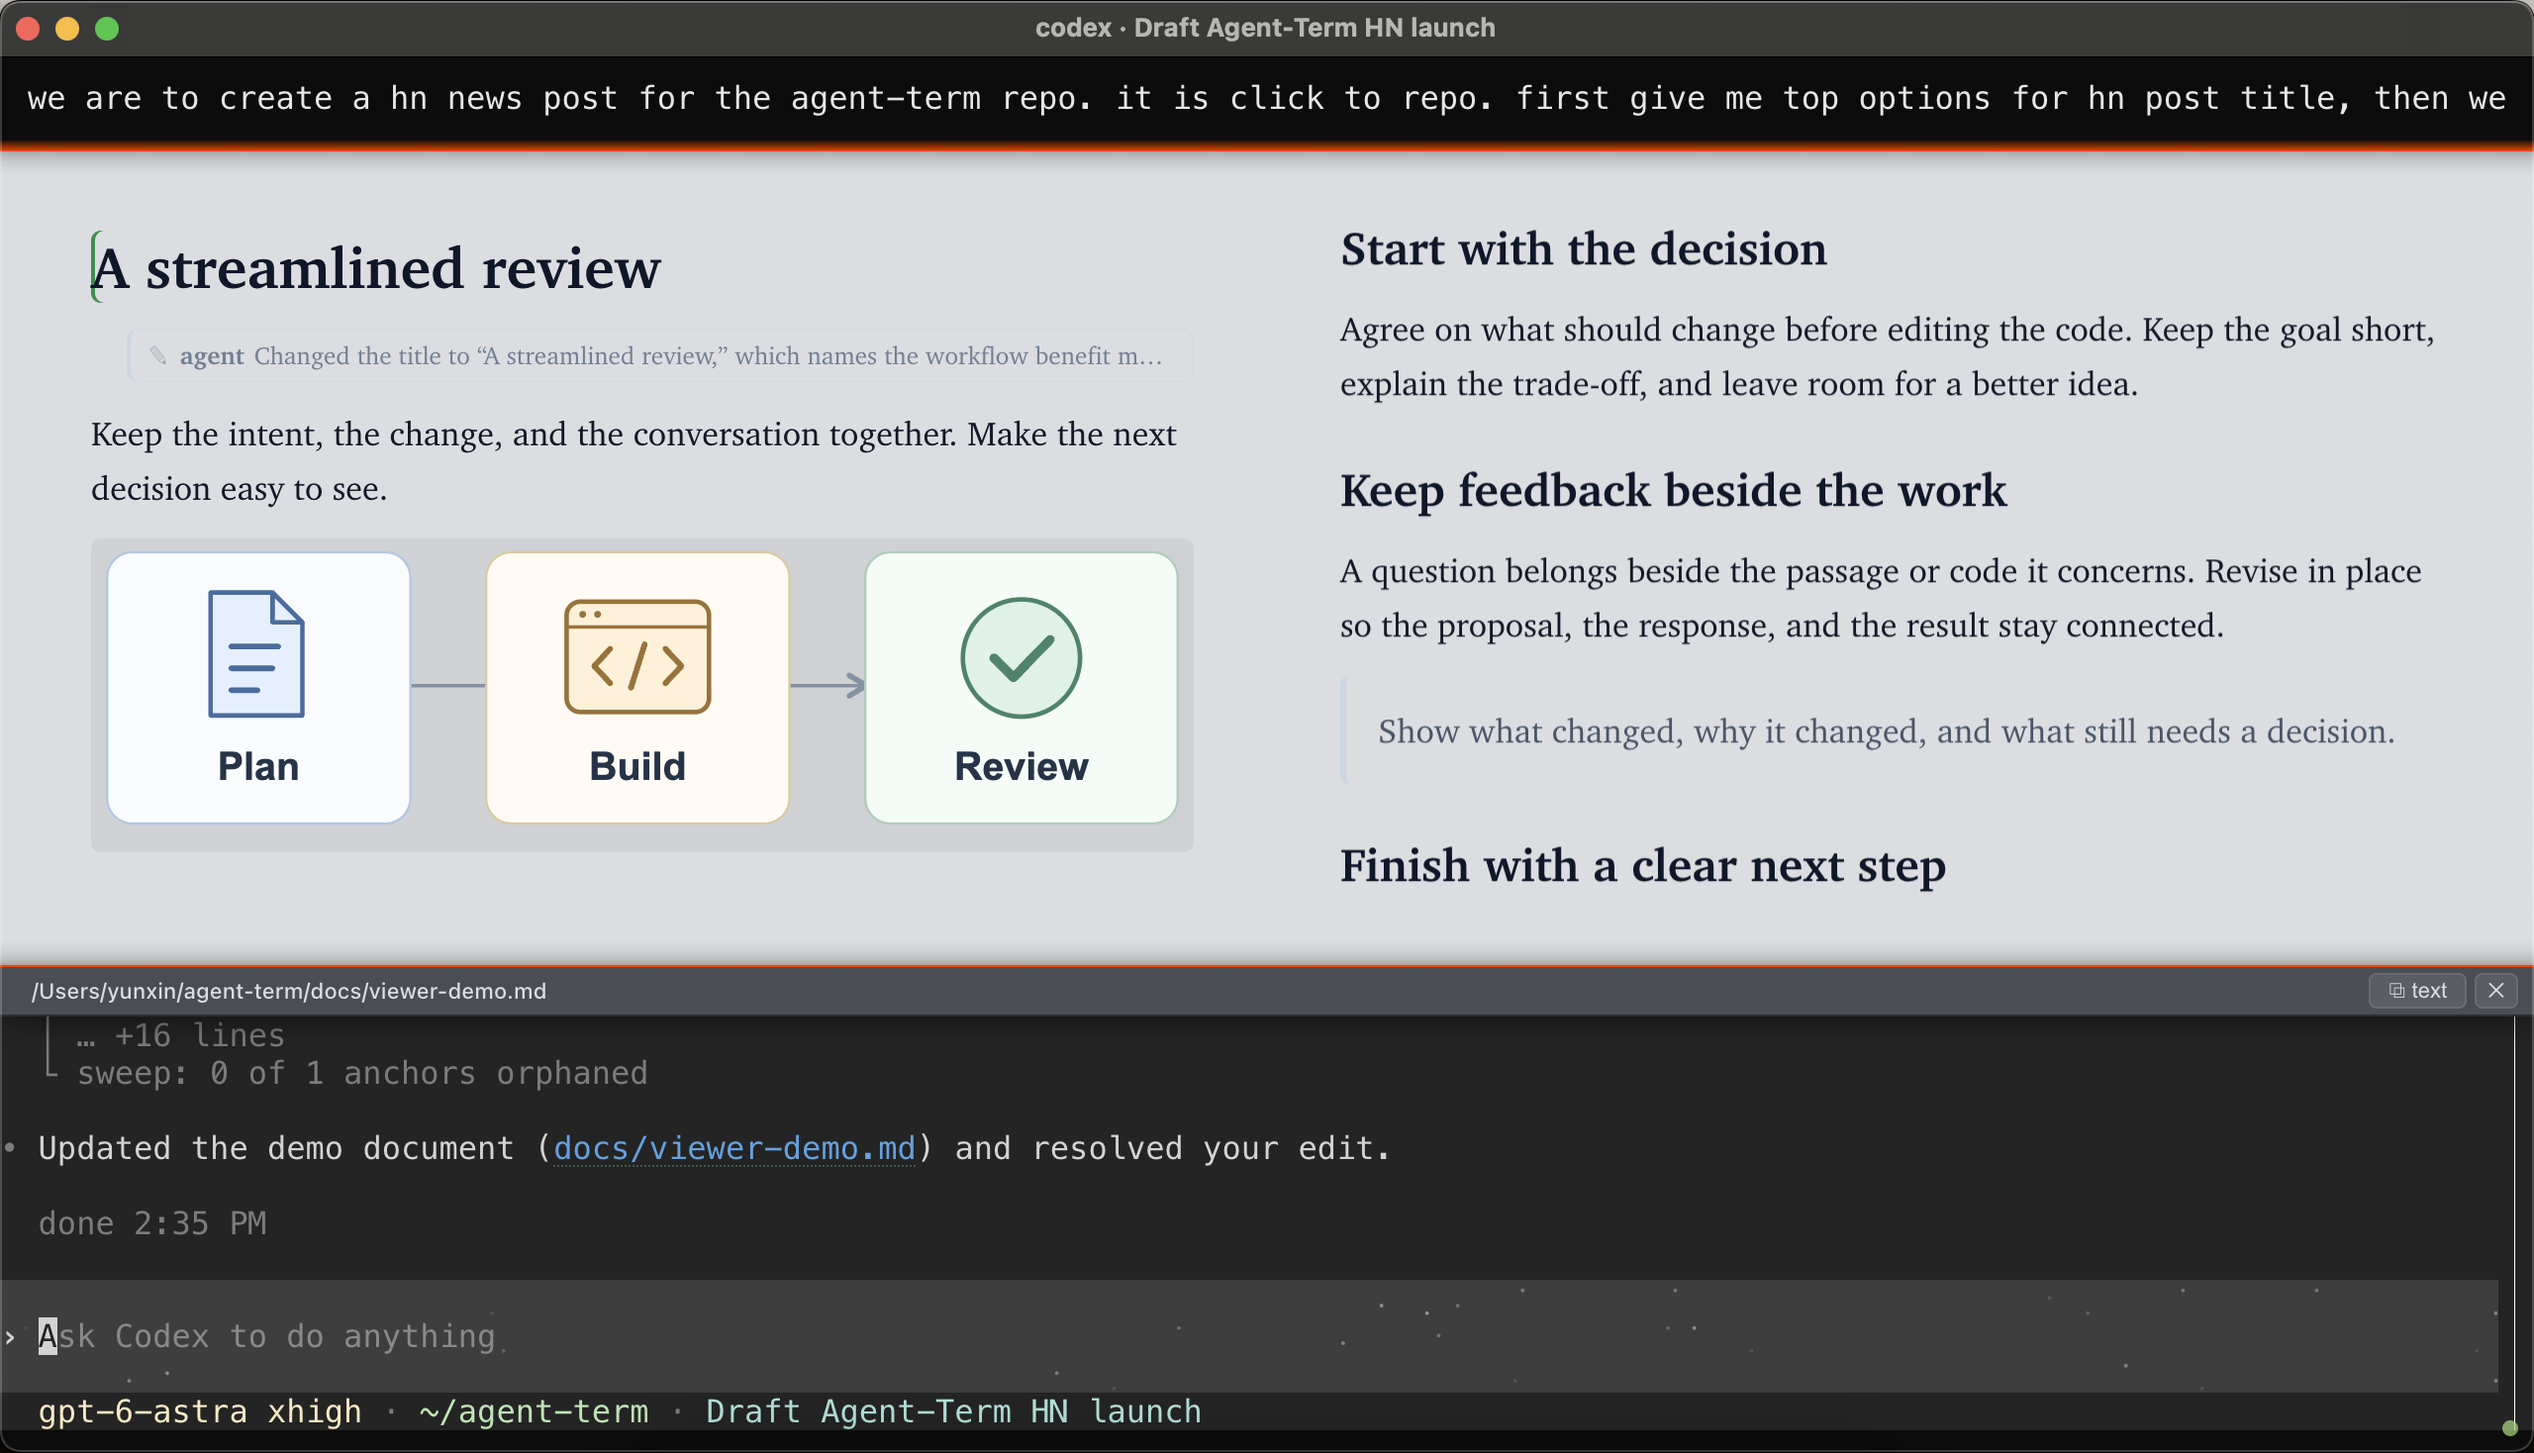
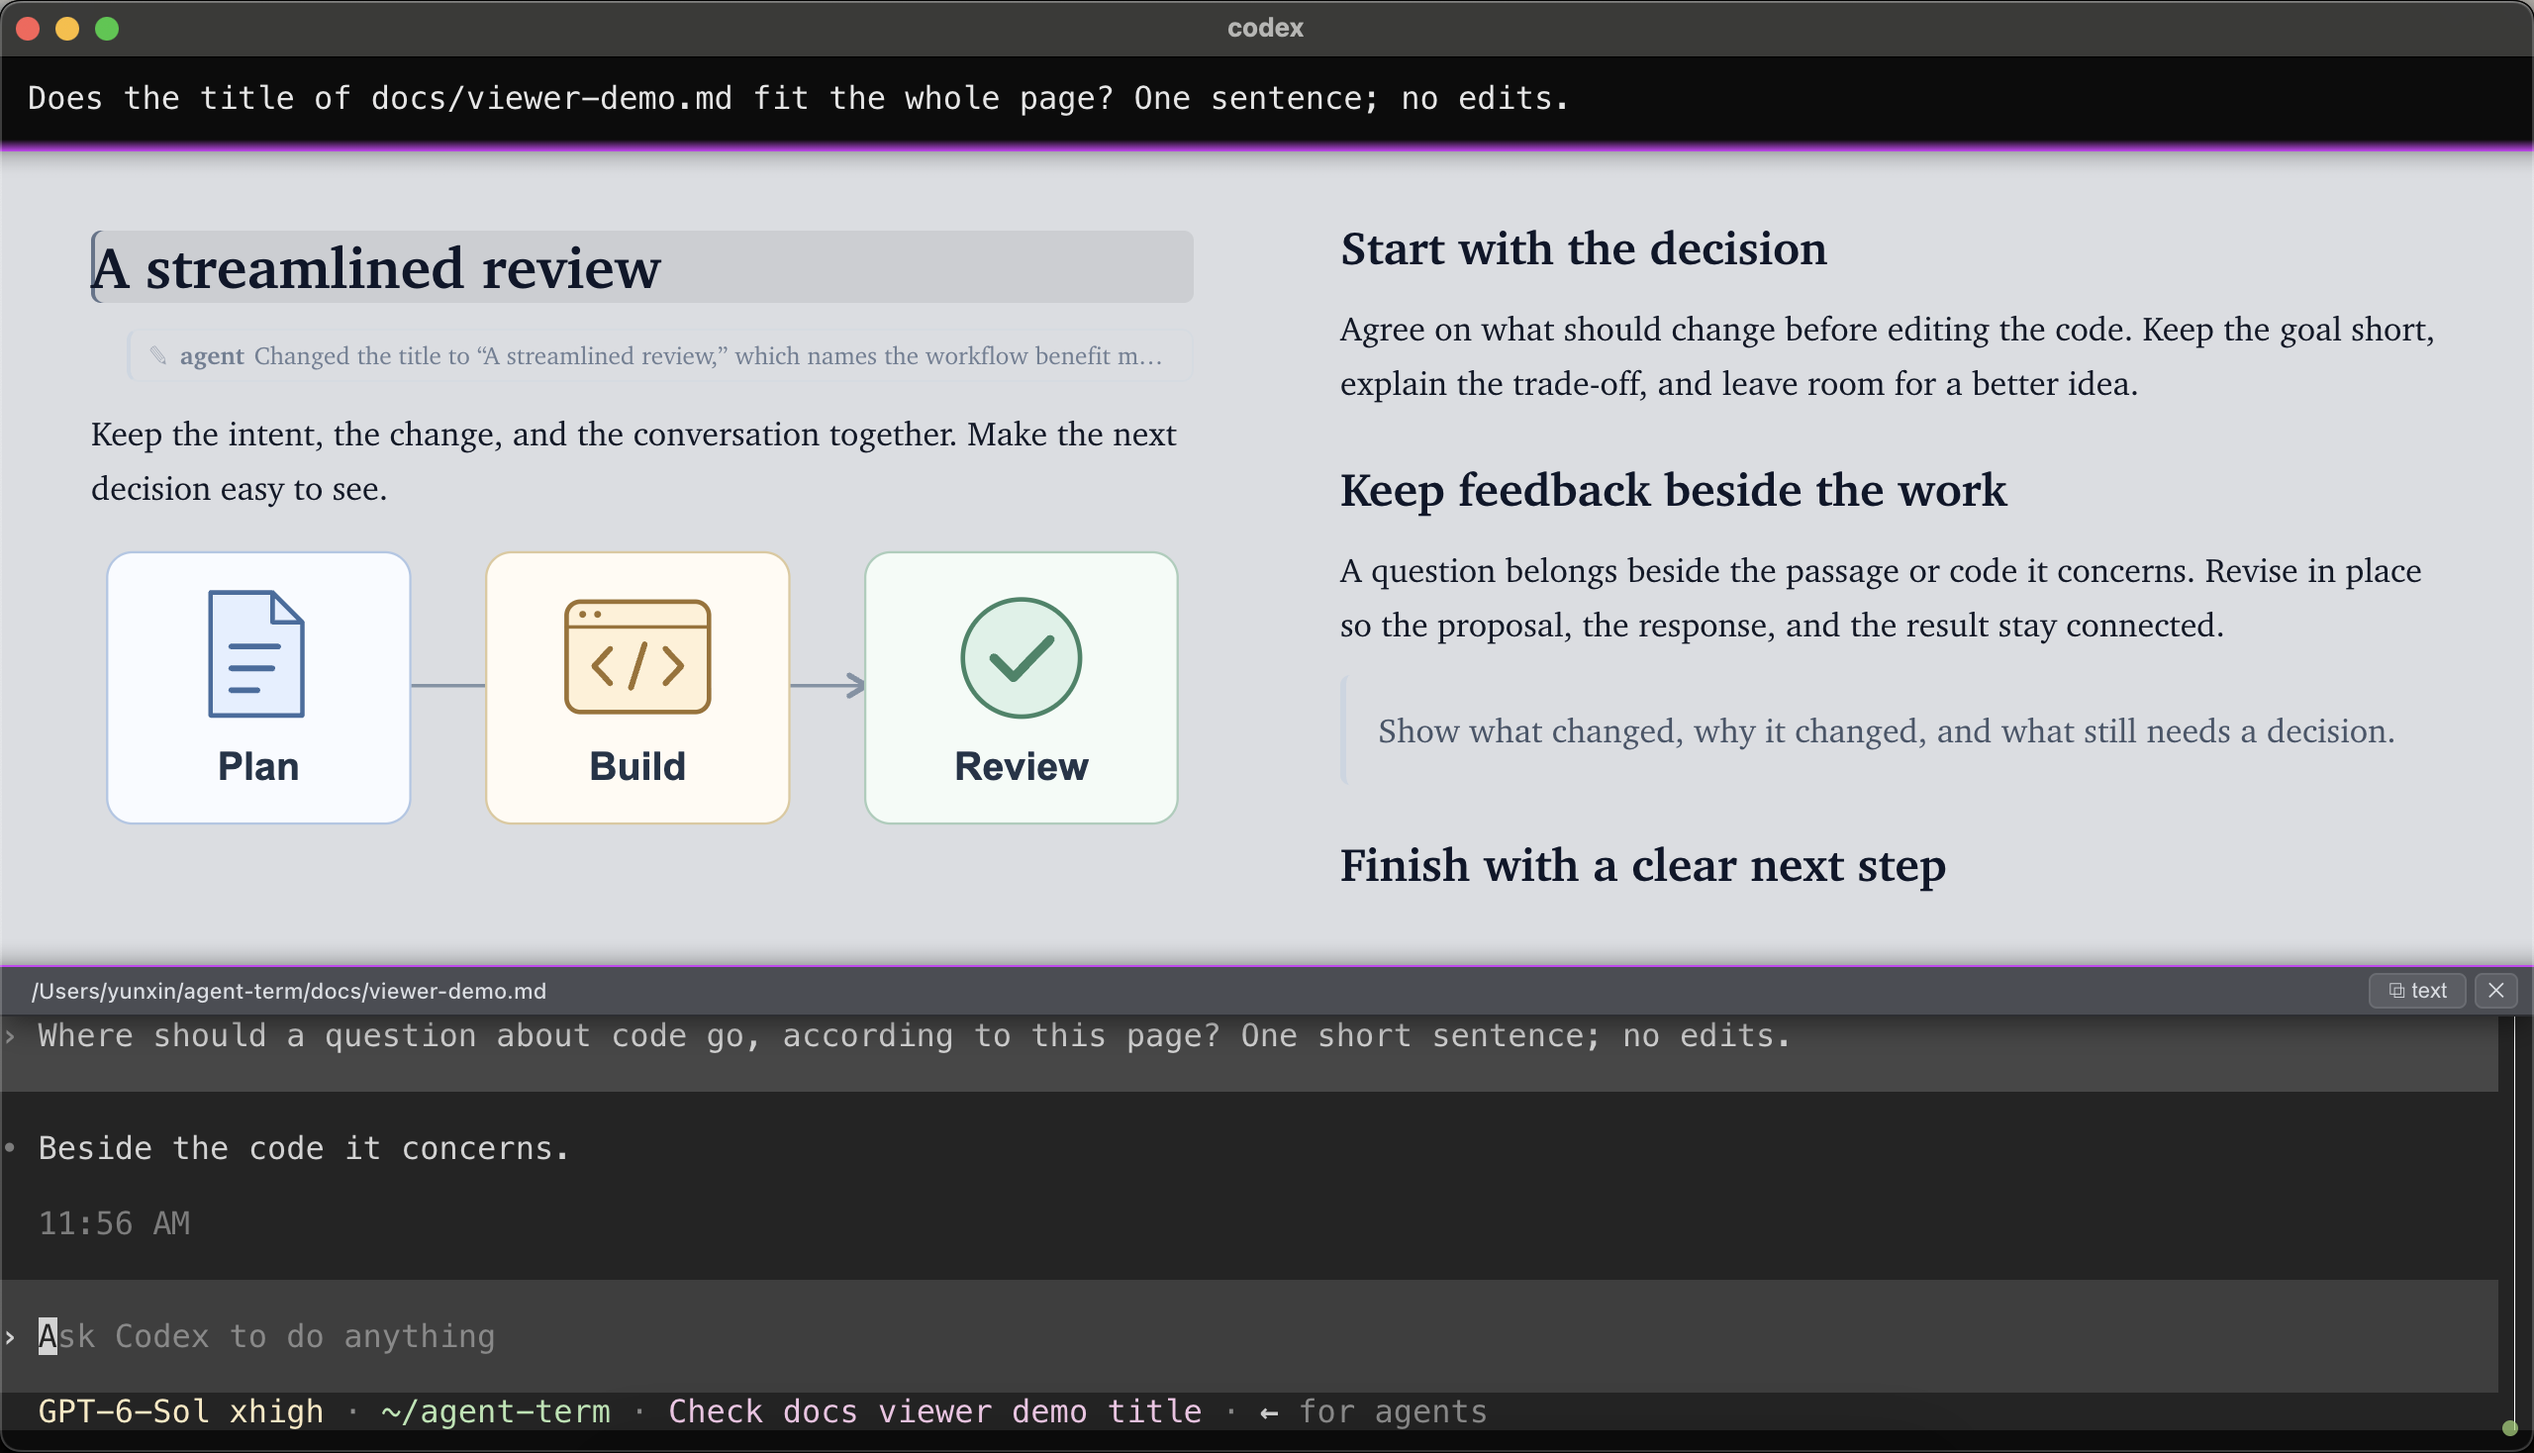
README: the viewer shown in its three states
A three-frame GIF from one idle session: the document sharing the window
while the agent works, filling it for review, and rolled up while a new
prompt is typed. Golden first so the reader sees it inside the terminal;
4 s, 3 s, 2 s. The still, recaptured from the same session, stays in
plan.md.

Claude-Session: https://claude.ai/code/session_01WaCZicmhEz4XvWkCaBiNAj

diff --git a/README.md b/README.md
@@ -43,7 +43,7 @@ So why do people still run agents in the IDE, and why are the vendors adding the
 Extending it on demand is what keeps it a terminal. Additions come in only when you need them, and the window is a terminal again the moment you finish. An IDE or a vendor's desktop app has its panels up before you type, which can distract. Here the window is your session alone, shaped only by the work you do in it, and full screen if you like, with nothing else in view ([one OS window per session](#one-os-window-per-session)).
 
 <p align="center">
-<img src="docs/assets/viewer-window.png" alt="AgentTerm window with an illustrated two-page document, an agent reply beside the revised heading, and the terminal conversation below">
+<img src="docs/assets/viewer-window.gif" alt="An AgentTerm window in three states: a two-page document sharing the window with the agent conversation below, the document filling the window, and the document rolled up while a new prompt is typed">
 <br><strong>Work on a document right in the terminal.</strong> The document area expands in full and closes as your focus shifts.
 </p>
 
